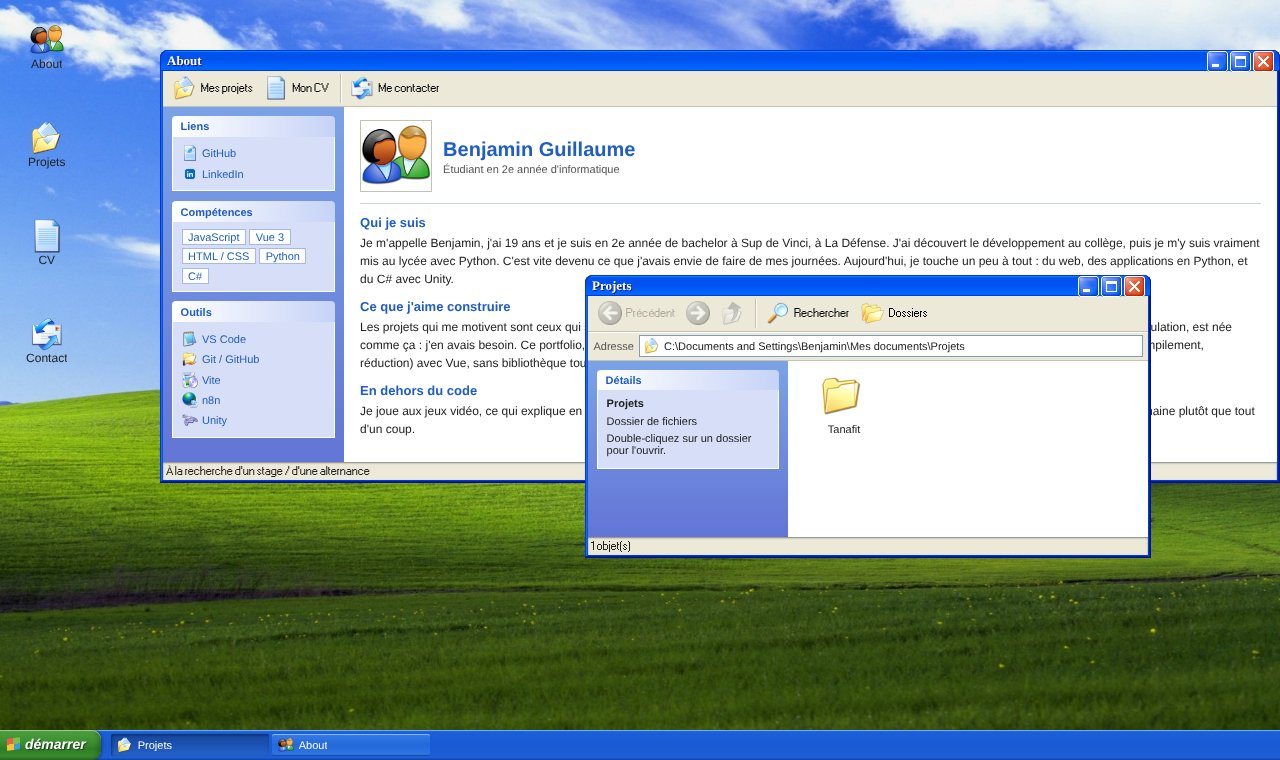
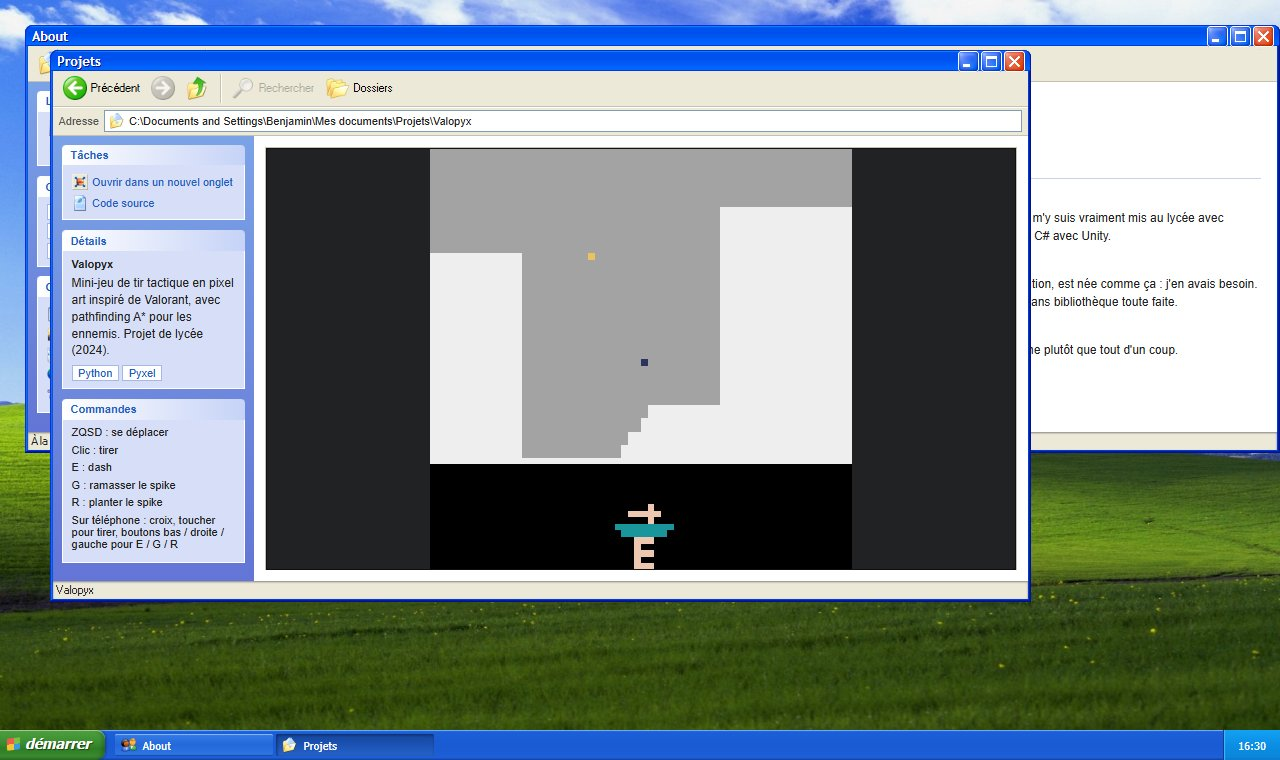
README : démos, admin Supabase, mobile et nouvel aperçu

diff --git a/README.md b/README.md
@@ -9,25 +9,32 @@ Mon portfolio de développeur, sous la forme d'un bureau Windows XP : on ouvre u
 - **Écran de connexion** façon Windows XP
 - **Fenêtres** déplaçables par la barre de titre, gardées dans les limites de l'écran, qui passent au premier plan au clic
 - **Réduire, agrandir, restaurer, fermer**, avec ouverture en cascade
-- **Barre des tâches** avec un bouton par fenêtre ouverte
+- **Barre des tâches** avec un bouton par fenêtre ouverte et l'horloge
 - **Menu Démarrer** : applications, liens, fermeture de session
 - **4 applications** :
   - **About** : présentation, compétences et outils
-  - **Projets** : mes projets, présentés comme dans l'Explorateur Windows
+  - **Projets** : mes projets, présentés comme dans l'Explorateur Windows, avec une démo pour chacun quand c'est possible :
+    - **jeu Pyxel jouable** dans la fenêtre (Python compilé pour le navigateur avec Pyodide), avec une manette virtuelle sur téléphone
+    - **partie de terminal rejouée** pour les projets en ligne de commande, à partir d'une vraie partie enregistrée
+    - **avancement** (fait, à faire) et schéma d'architecture pour les projets en cours
   - **CV** : aperçu avec zoom et téléchargement en PDF
   - **Contact** : formulaire envoyé avec Formspree, lien vers LinkedIn
+- **Mobile** : ouverture au toucher, fenêtres agrandies, déplacement au doigt, démos jouables en plein onglet
+- **Administration** : page `/admin/` pour modifier les projets, la présentation, le CV et le contact sans toucher au code
 
 ## Technologies
 
 - **Vue 3** (Composition API, `<script setup>`) et **Vite**
-- **Pinia** pour l'état des fenêtres et de la session
+- **Pinia** pour l'état des fenêtres, de la session et du contenu
+- **Supabase** (Postgres, authentification, stockage de fichiers) pour le contenu modifiable depuis l'admin
 - **[XP.css](https://botoxparty.github.io/XP.css/)** pour le style des fenêtres. La barre des tâches, le menu Démarrer et l'écran de connexion sont écrits à la main.
 
 ## Choix techniques
 
 - **Gestionnaire de fenêtres fait main**, sans bibliothèque : ordre d'affichage par `z-index` avec un compteur, focus au `mousedown` comme sous XP, déplacement avec des écouteurs `mousemove` / `mouseup` sur `document`, position bornée à la zone visible.
-- **Contenu séparé du code** : les textes, les projets et les liens sont dans `src/data/`. On les modifie sans toucher aux composants.
+- **Contenu séparé du code** : le site lit les projets et les textes dans Supabase (store `content`). `src/data/` contient les mêmes données et sert de secours si Supabase ne répond pas.
 - **Une seule source pour les applications** : `src/data/apps.js` décrit chaque application (nom, icône, composant). Le bureau, la barre des tâches et le menu Démarrer s'en servent tous.
+- **Démos chargées à la demande** : rien n'est téléchargé avant le clic sur « Lancer la démo ». Une fenêtre inactive rend ses iframes transparentes à la souris, pour que le premier clic dans un jeu donne le focus à la fenêtre, comme sous XP.
 
 ## Lancer le projet
 
@@ -40,6 +47,8 @@ npm install
 npm run dev
 ```
 
+Sans configuration, le site utilise les données de `src/data/`. Pour lire Supabase, copier `.env.example` en `.env.local` et renseigner `VITE_SUPABASE_URL` et `VITE_SUPABASE_ANON_KEY`. Le schéma de la base est dans `docs/supabase.sql`, puis `docs/supabase-demos.sql`.
+
 Pour la version de production :
 
 ```bash
@@ -51,25 +60,28 @@ npm run preview
 
 ```
 src/
-├── App.vue                fenêtres et déplacement, écran de connexion ou bureau
+├── App.vue                écran de connexion ou bureau, chargement du contenu
 ├── components/
+│   ├── AppWindow.vue      une fenêtre : déplacement, réduire, agrandir, fermer
 │   ├── LoginScreen.vue    écran de connexion
 │   ├── Desktop.vue        bureau et icônes
 │   ├── taskbar.vue        barre des tâches
 │   ├── StartMenu.vue      menu Démarrer
+│   ├── TaskbarClock.vue   horloge de la barre des tâches
+│   ├── ProjectDemo.vue    aperçu et lancement de la démo d'un projet
+│   ├── TerminalReplay.vue partie de terminal rejouée
 │   └── apps/              About, Projets, CV, Contact
-├── data/                  contenu : applications, présentation, projets
+├── data/                  contenu : applications, présentation, projets, partie du RPG
+├── utils/touch.js         détection des écrans tactiles
+├── lib/supabase.js        client Supabase et envoi de fichiers
+├── admin/                 page d'administration (/admin/)
 └── stores/
     ├── windows.js         fenêtres ouvertes, ordre, position, état
-    └── session.js         session ouverte ou fermée
+    ├── session.js         session ouverte ou fermée
+    └── content.js         contenu lu dans Supabase, src/data/ en secours
 ```
 
-## À venir
-
-- Mise en ligne
-- Affichage adapté au mobile
-- Plus de projets dans l'application Projets
-- Horloge dans la barre des tâches
+Les démos jouables sont dans `public/demos/`.
 
 ---
 
